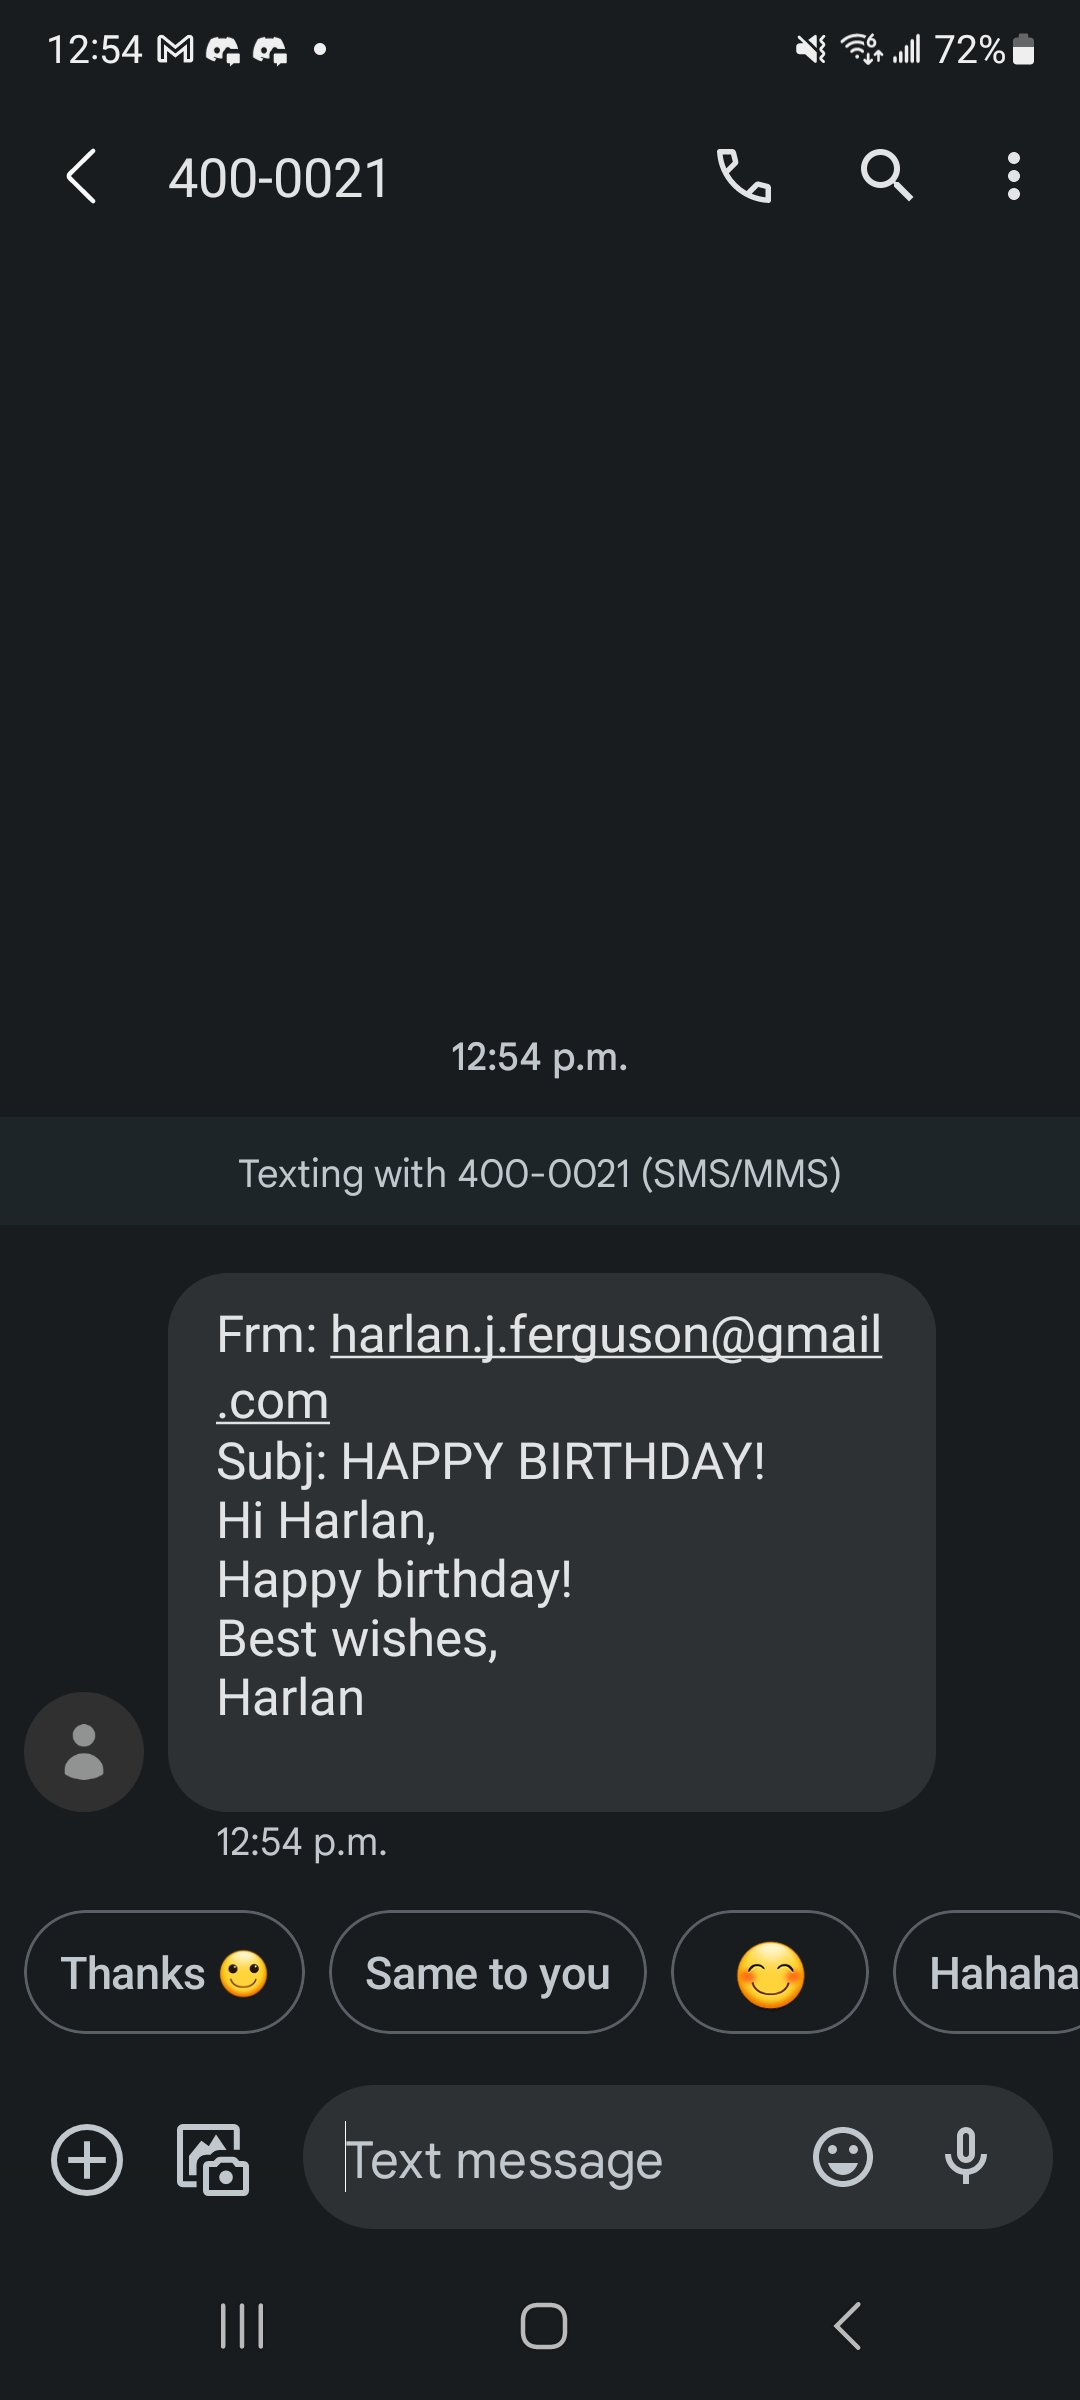
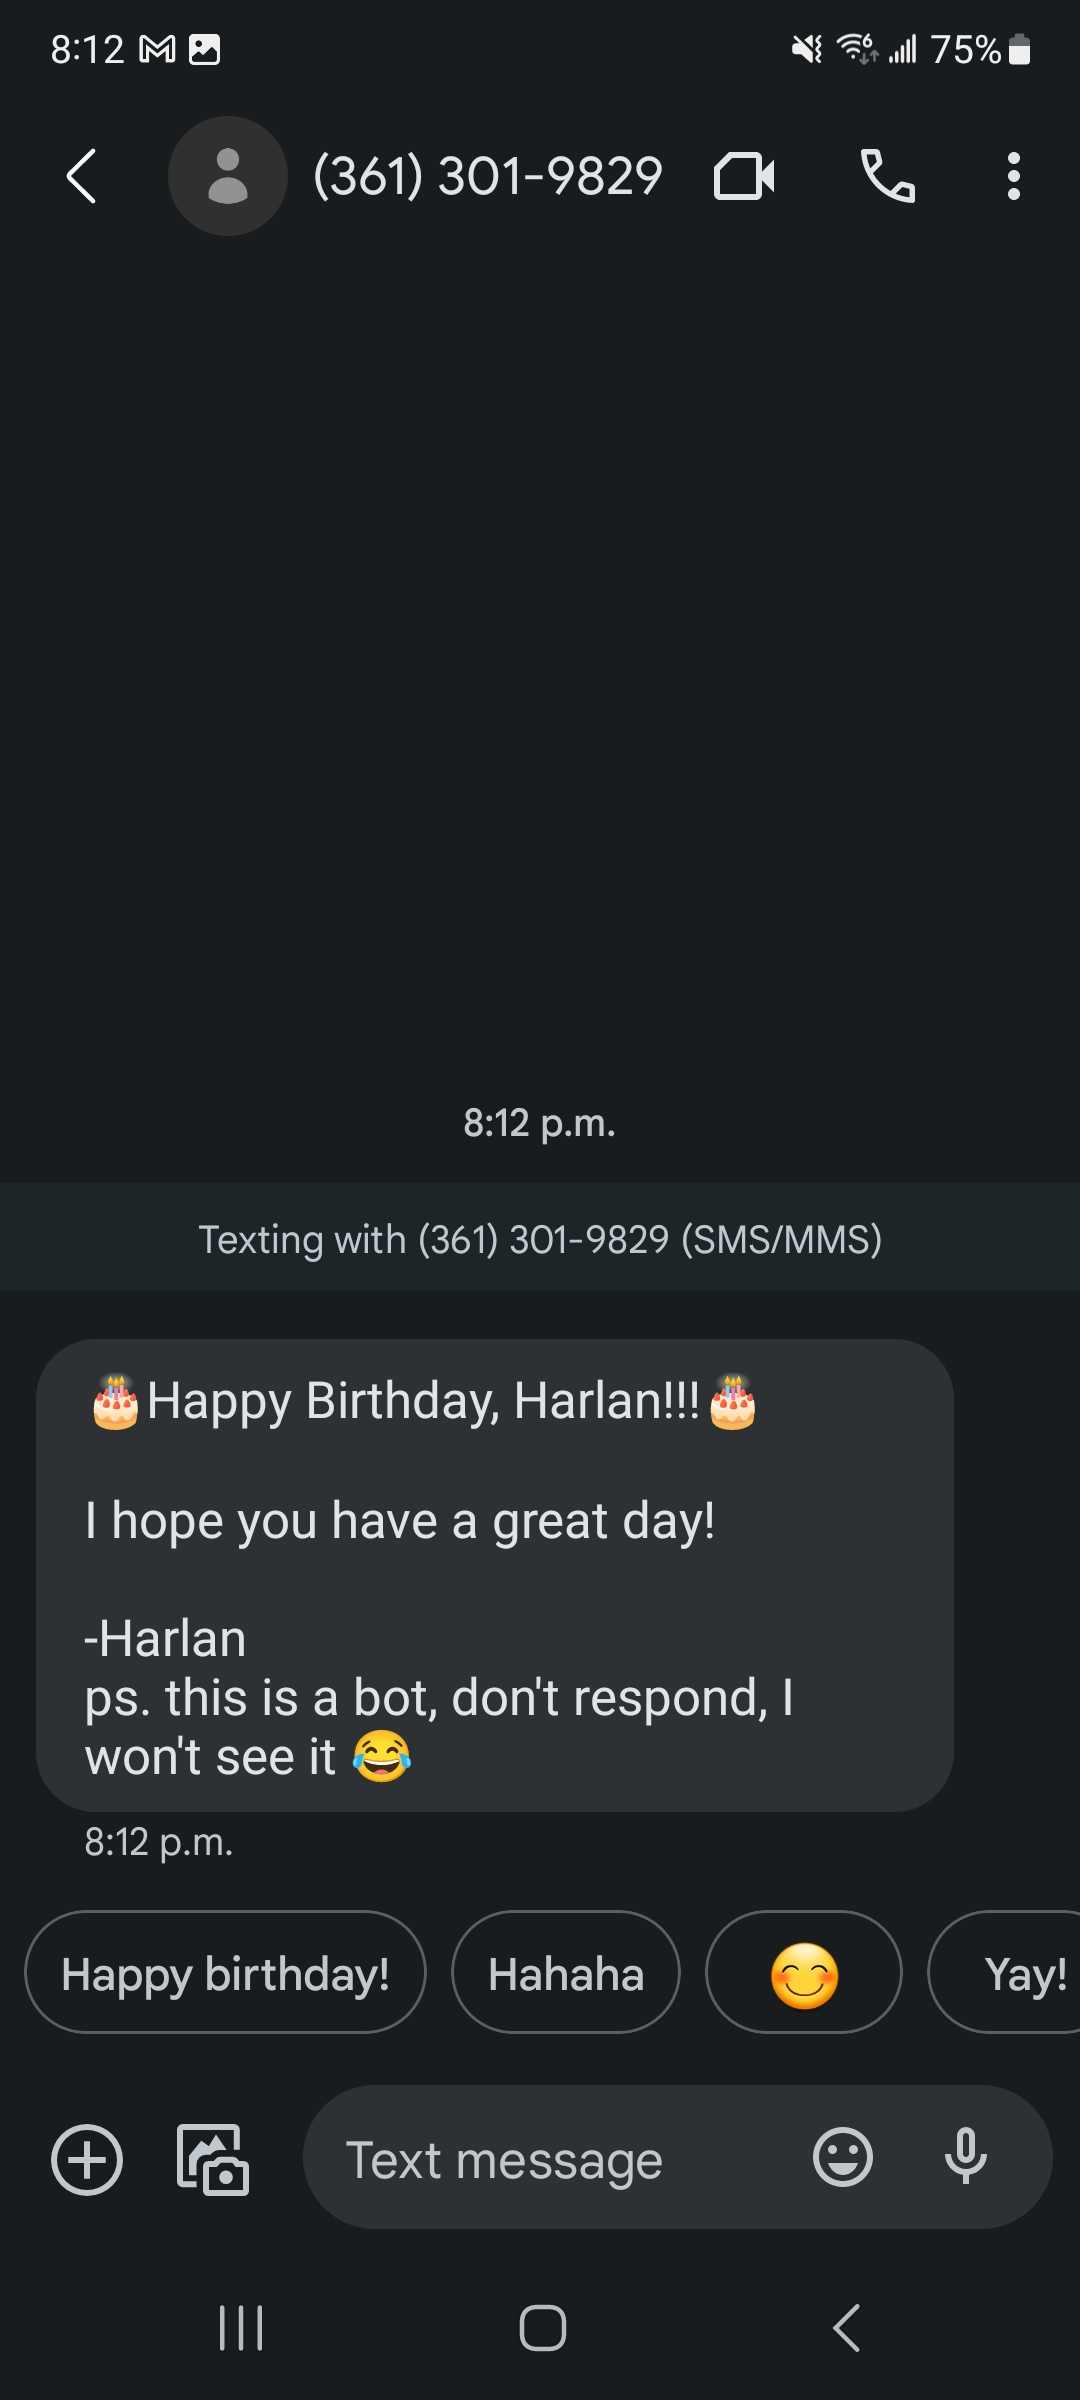
I rewrote my birthday_bot, so I updated site accordingly

diff --git a/index.html b/index.html
@@ -102,13 +102,14 @@
             <div class="project-box">
                 <h3>Auto Texting Birthday Bot</h3>
                 <img src="docs/assets/img/birthday_bot.jpg" alt="Screenshot of the bot texting happy birthday to the recipient" class="project-image" style="max-width: 25%;">
-                <p>This was my first project using APIs, and before I knew what a .csv was... It's definately in need of a V2, but I'm proud nontheless. 
-                    The program has a list of friends with their phone numbers and birthdays. I have the program running daily on a raspberry pi,
-                    and cron jobs. The program checks the system date, and compares it to dates in the list. If there is a match,
-                    the program sends a text message to the recipient using SMTP. I went with this approach because I didn't want to pay for a service like Twilio.
-                    <br><br>Techstack: Python
+                <p>This was my first ever project (2020). It originally used SMTP to send birthday messages to my friends. It's what gave me the confidence to go to school
+                    full-time for programming and I'm glad I did. 
+                    It was fun to learn/write at the time, but it had it's flaws. Like how most mobile carriers don't support SMTP by default. So it ended up not being as helpful
+                    as planned. So I figured I would re-write it from scratch using my current expertise. Now the program uses the Twilio API, which allows me to text anyone in my
+                    dataset without issue. Now the program is a lot more reliable. Successfully running with cron jobs on a Raspberry Pi3!
+                    <br><br>Techstack: Python, Bash
                 </p>
-                <a href="https://github.com/hjferguson/Birthday_Bot_V1">View Project</a>
+                <a href="https://github.com/hjferguson/birth_bot_v2">View Project</a>
             </div>
 
         </div>
